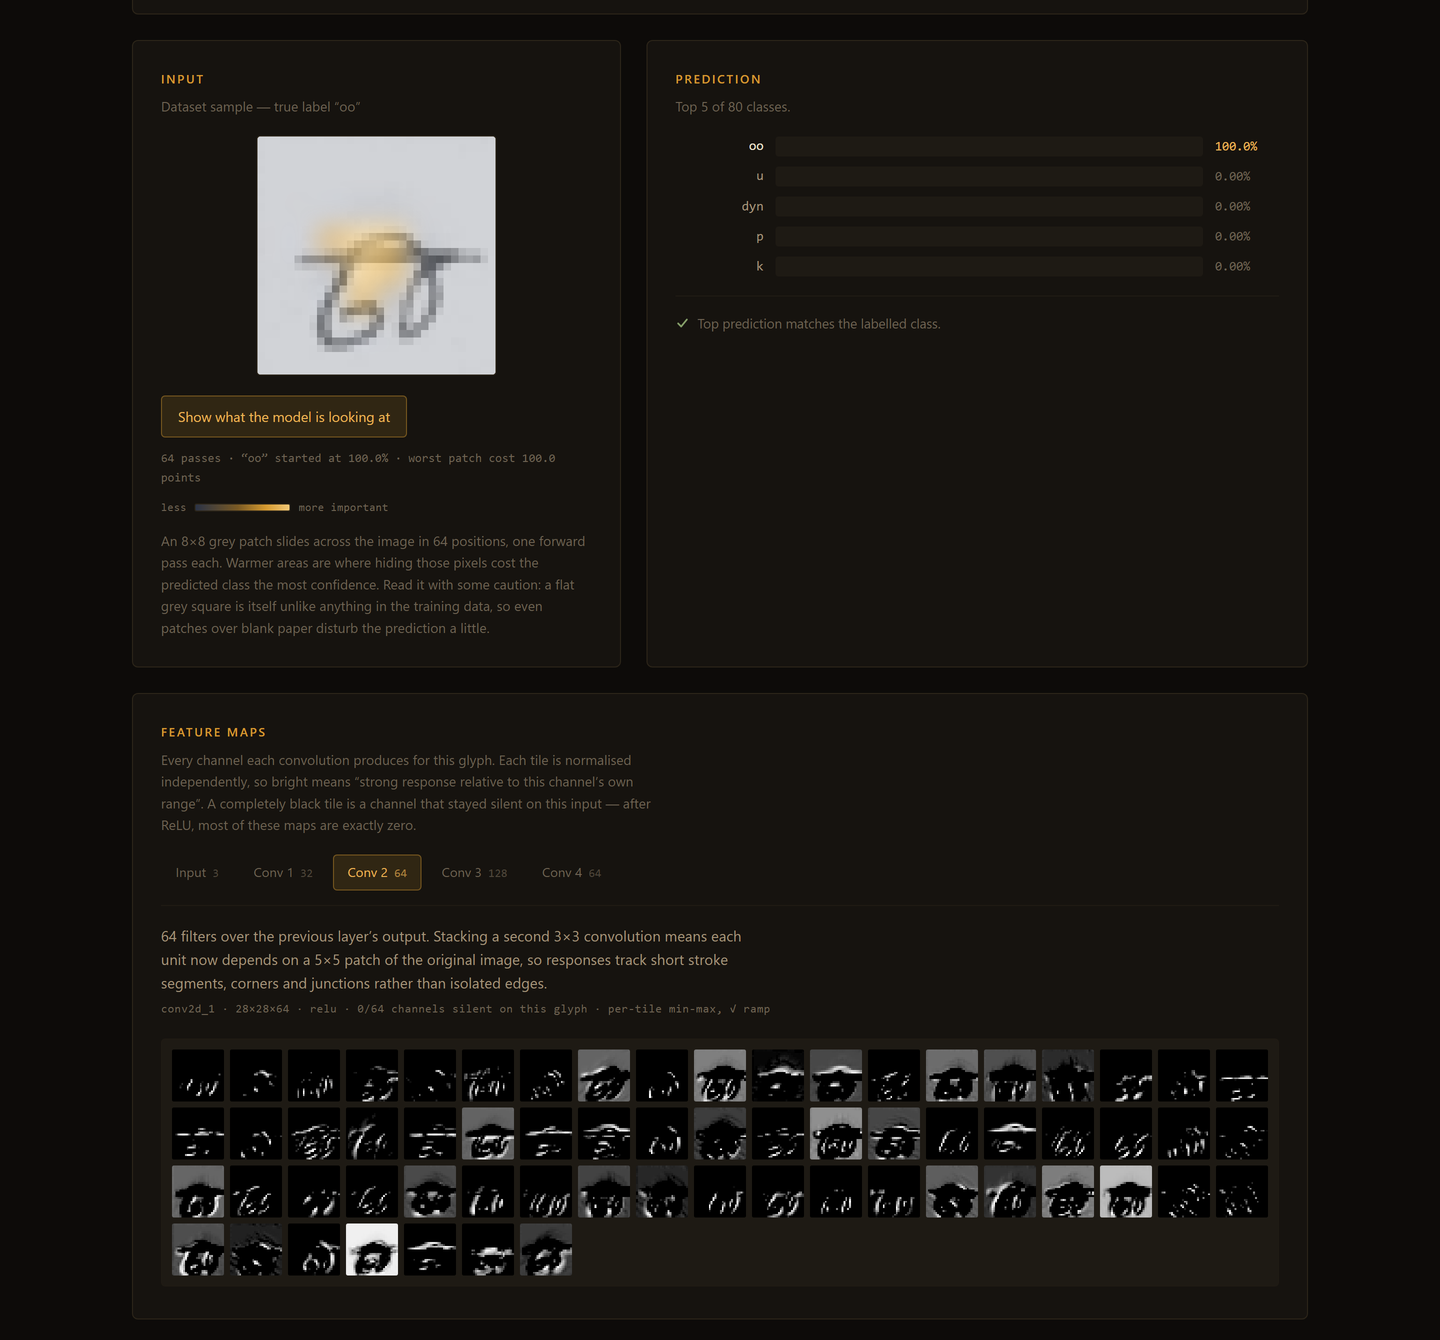
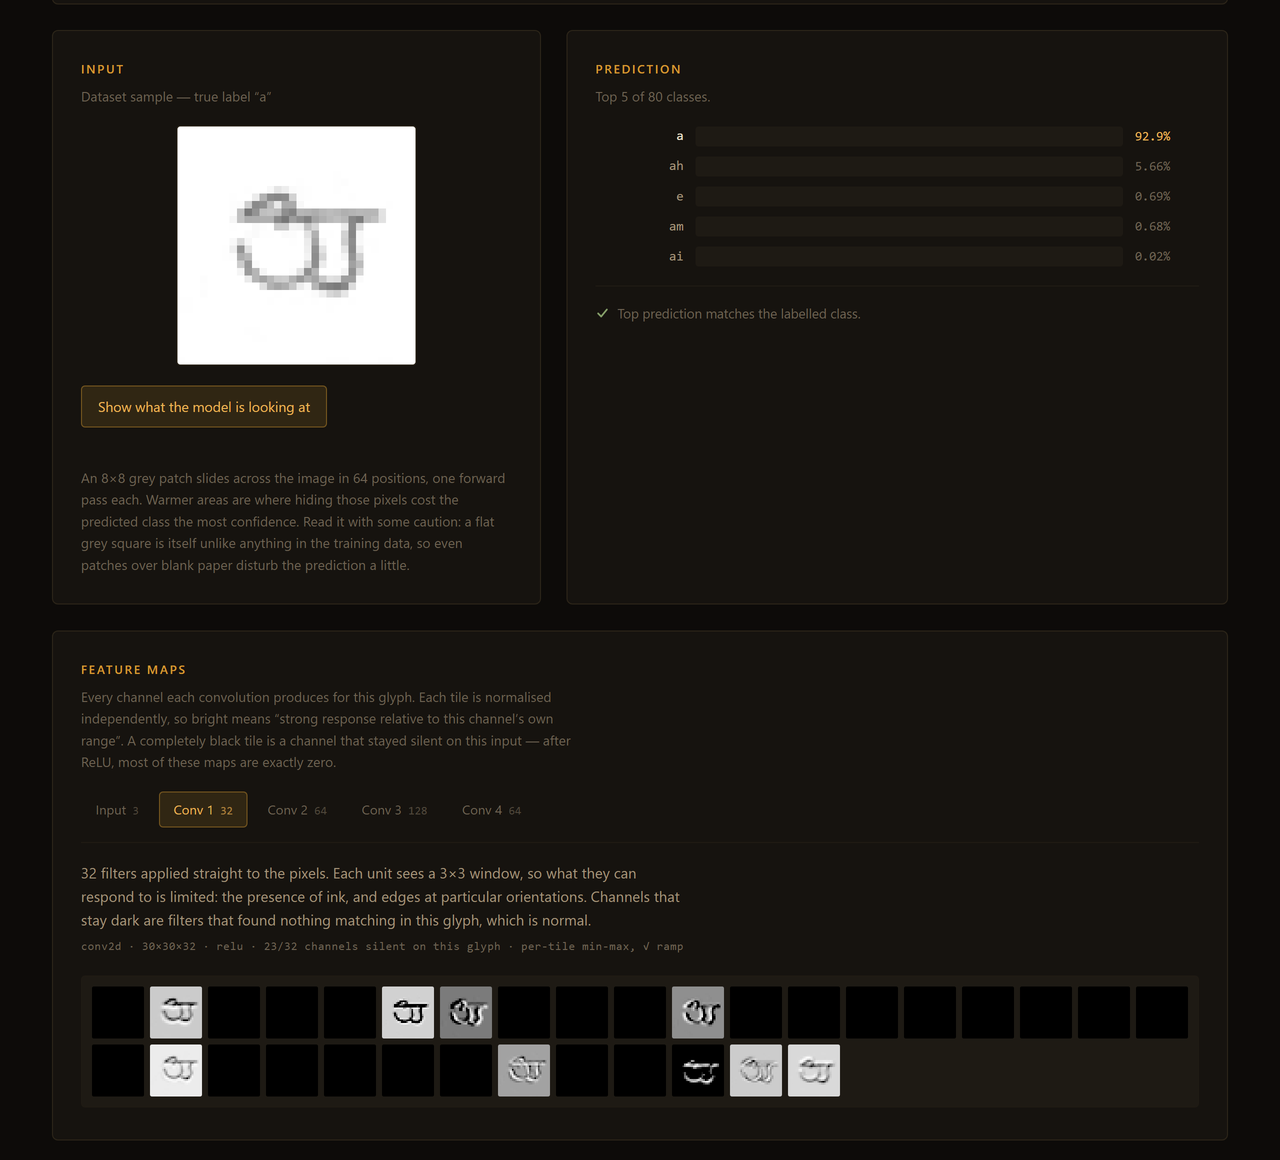
Fix invisible prediction bars; retake the README screenshot
.bar__fill is a <span> and the stylesheet never set display:block, so it stayed
display:inline - width and height do not apply to inline boxes, and every bar
rendered 0x0. The amber fill and the correct percentage were both there in the
DOM, just with no layout box. Verified on the deployed page: the top bar now
renders 333px of a 358px track for a 92.9% prediction.

The README hero was captured before this fix, so it showed empty bars. Retaken.

Also make the footer repo link absolute rather than '../': when Pages serves the
/docs folder that folder IS the site root, so the relative link left the repo.

diff --git a/docs/style.css b/docs/style.css
@@ -349,6 +349,9 @@ main { display: grid; gap: clamp(1rem, 2.5vw, 1.6rem); }
   overflow: hidden;
 }
 .bar__fill {
+  /* A span defaults to display:inline, on which width and height do not apply -
+     without this the fill renders 0x0 and every bar looks empty. */
+  display: block;
   height: 100%;
   width: 0;
   background: var(--accent);
